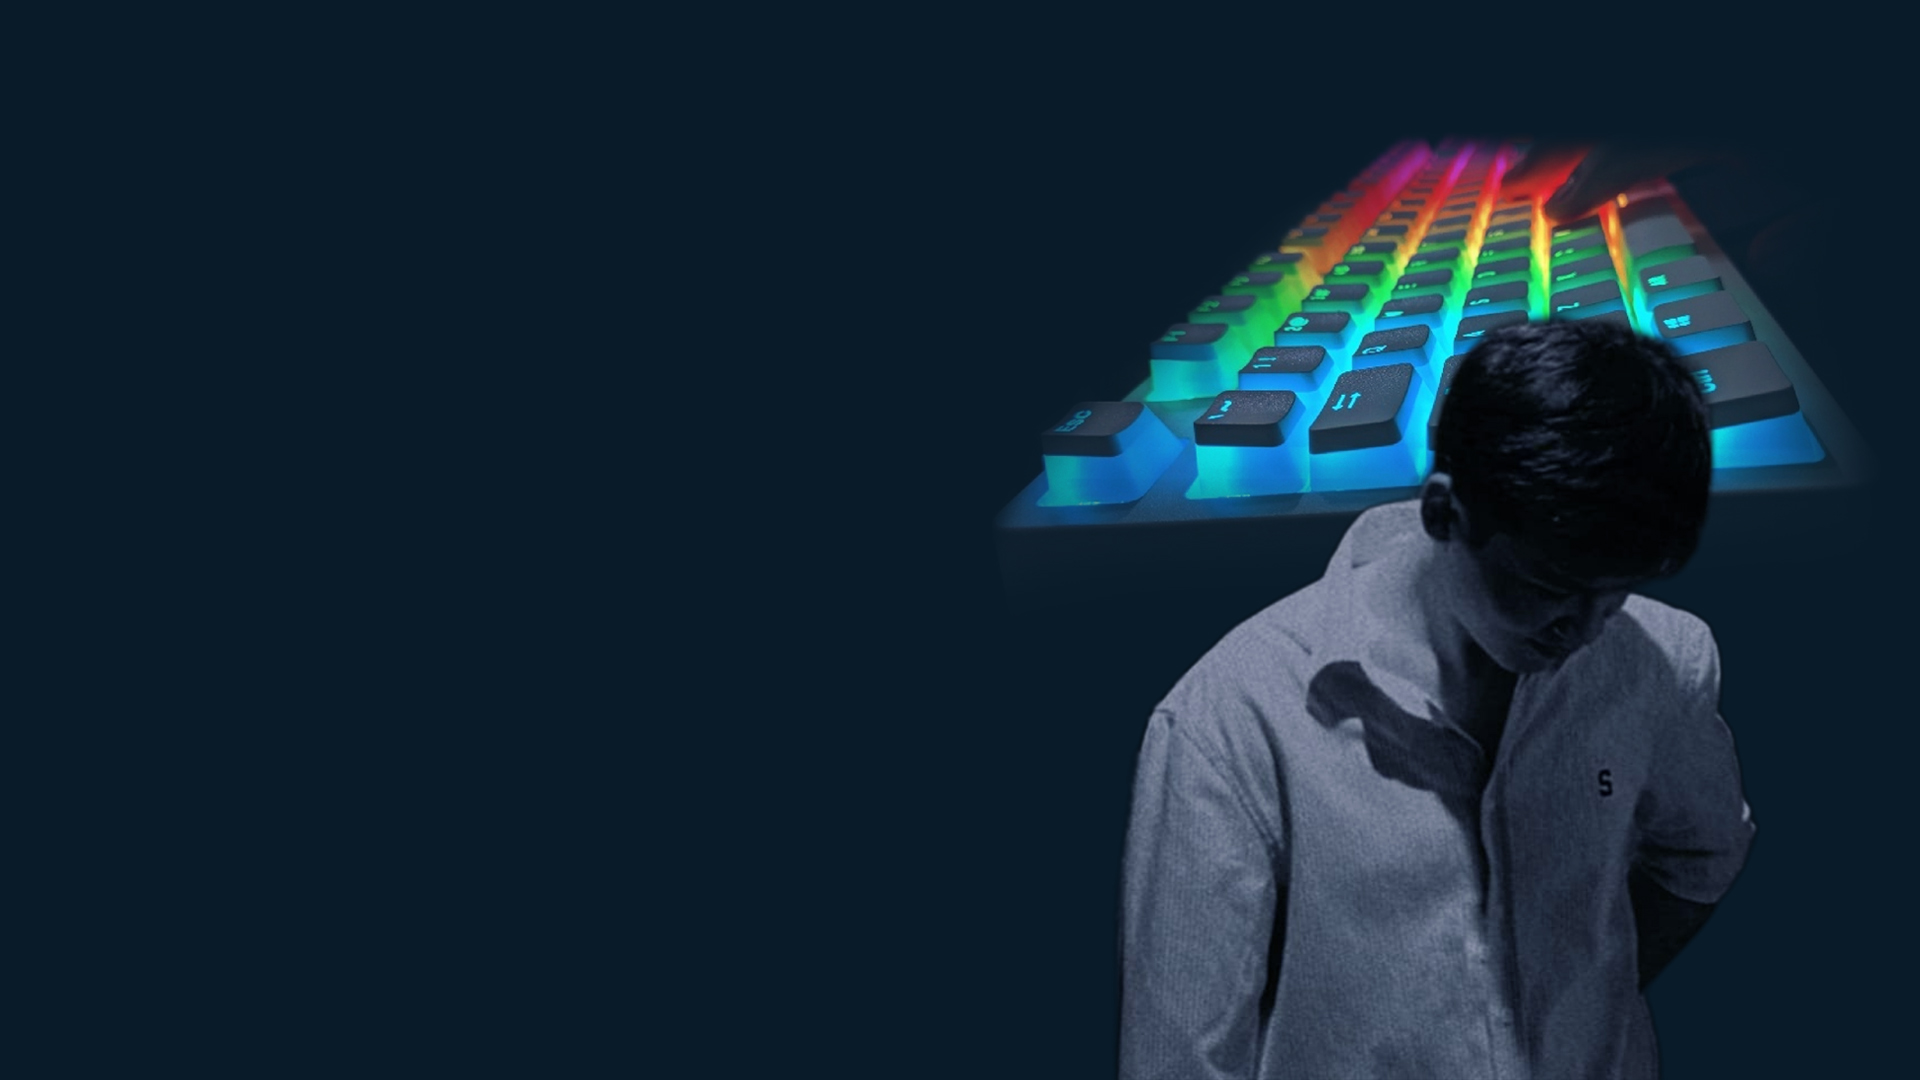
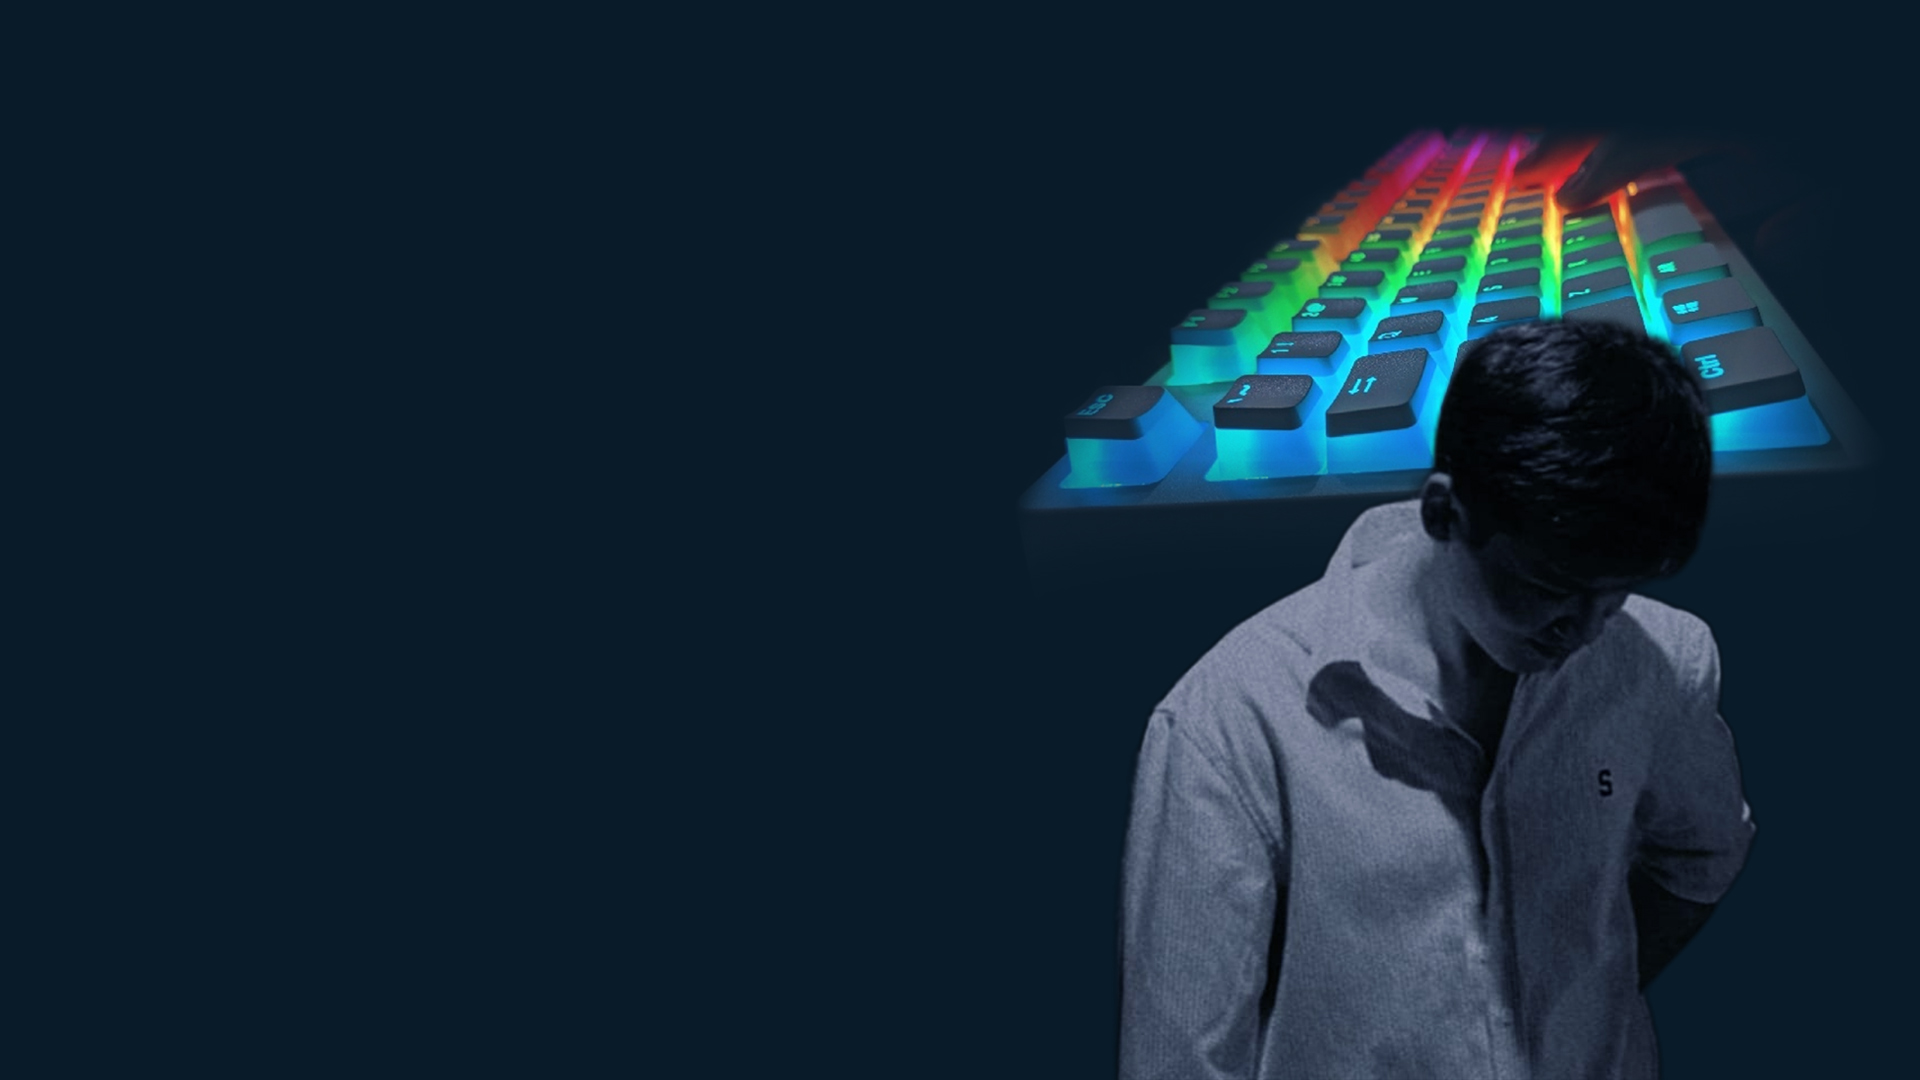
alo

Changed region(s): [[0.5, 0.1222, 0.9688, 0.4889]]

diff --git a/css/main.css b/css/main.css
@@ -228,7 +228,7 @@ body {
     position: absolute;
     top: 0;
     right: 30px;
-    width: 685px;
+    width: 700px;
     height: 100%;
     background: transparent;
     transition: 3s;
